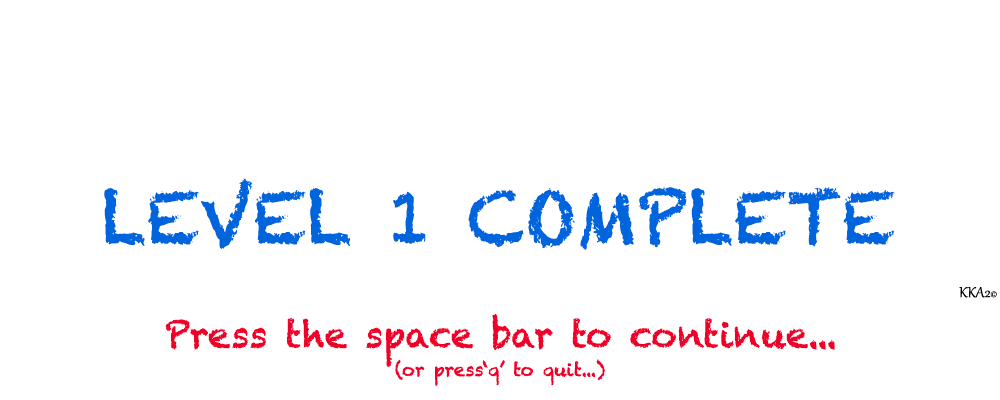
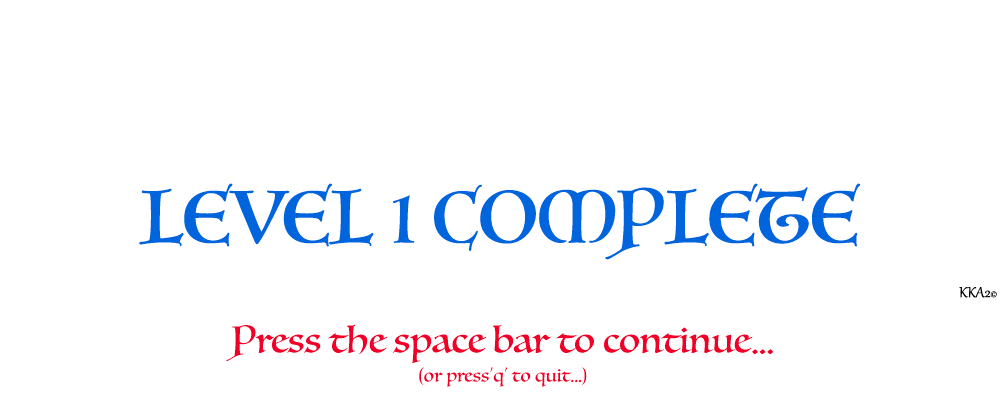
update transition images, lower life deducted from enemy

Changed region(s): [[0.093, 0.45, 0.899, 0.66], [0.155, 0.78, 0.837, 0.96]]

diff --git a/project/Master.cpp b/project/Master.cpp
@@ -126,7 +126,7 @@ void Master::play() {
                 }
                 else if (player.getState() == 6) { // if player is kicking
                     sound.playSound(2);
-                    enemy.setLifePts(enemy.getLifePts() - 4); // enemy loses more life
+                    enemy.setLifePts(enemy.getLifePts() - 3); // enemy loses more life
                     Hit = 2;
                 }
                 if (enemy.getState() == 5) { // if enemy is punching
@@ -136,7 +136,7 @@ void Master::play() {
                 }
                 else if (enemy.getState() == 6) { // if enemy is kicking
                     sound.playSound(2);
-                    player.setLifePts(player.getLifePts() -2);
+                    player.setLifePts(player.getLifePts() - 2);
                     Hit = 2;
                 }
             }
@@ -303,11 +303,12 @@ void Master::animate(Person *person) {
     }
     // move person
     if (person->getState() == 4) { // rolling
+
         person->setCurrRoll(person->getCurrRoll() + 1);
         if (person->getMoveDir() == SDL_FLIP_NONE) // check direction for movement
-            moveFigure(person,16,0);
+            moveFigure(person,14,0);
         else
-            moveFigure(person,-16,0);
+            moveFigure(person,-14,0);
         
         if (person->getCurrRoll() < 8) {
             update();
@@ -667,7 +668,7 @@ void Master::fixCollision(Person *person, int collisionType) {
         if (person->getState() == 1 || person->getState() == 2) // if running/jumping
             person->setXPos(person->getXPos() + 10);
         else if (person->getState() == 4) // if rolling
-            person->setXPos(person->getXPos() + 16);
+            person->setXPos(person->getXPos() + 14);
         else if (person->getState() == 5 || person->getState() == 6) // punching/kicking
             person->setXPos(person->getXPos() + 2);
         else { // catch exception (standing)
@@ -679,7 +680,7 @@ void Master::fixCollision(Person *person, int collisionType) {
         if (person->getState() == 1 || person->getState() == 2) // if running/jumping
             person->setXPos(person->getXPos() - 10);
         else if (person->getState() == 4) // if rolling
-            person->setXPos(person->getXPos() - 16);
+            person->setXPos(person->getXPos() - 14);
         else if (person->getState() == 5 || person->getState() == 6)  // if punching/kicking
             person->setXPos(person->getXPos() - 2);
         else { // catch exception (standing)
